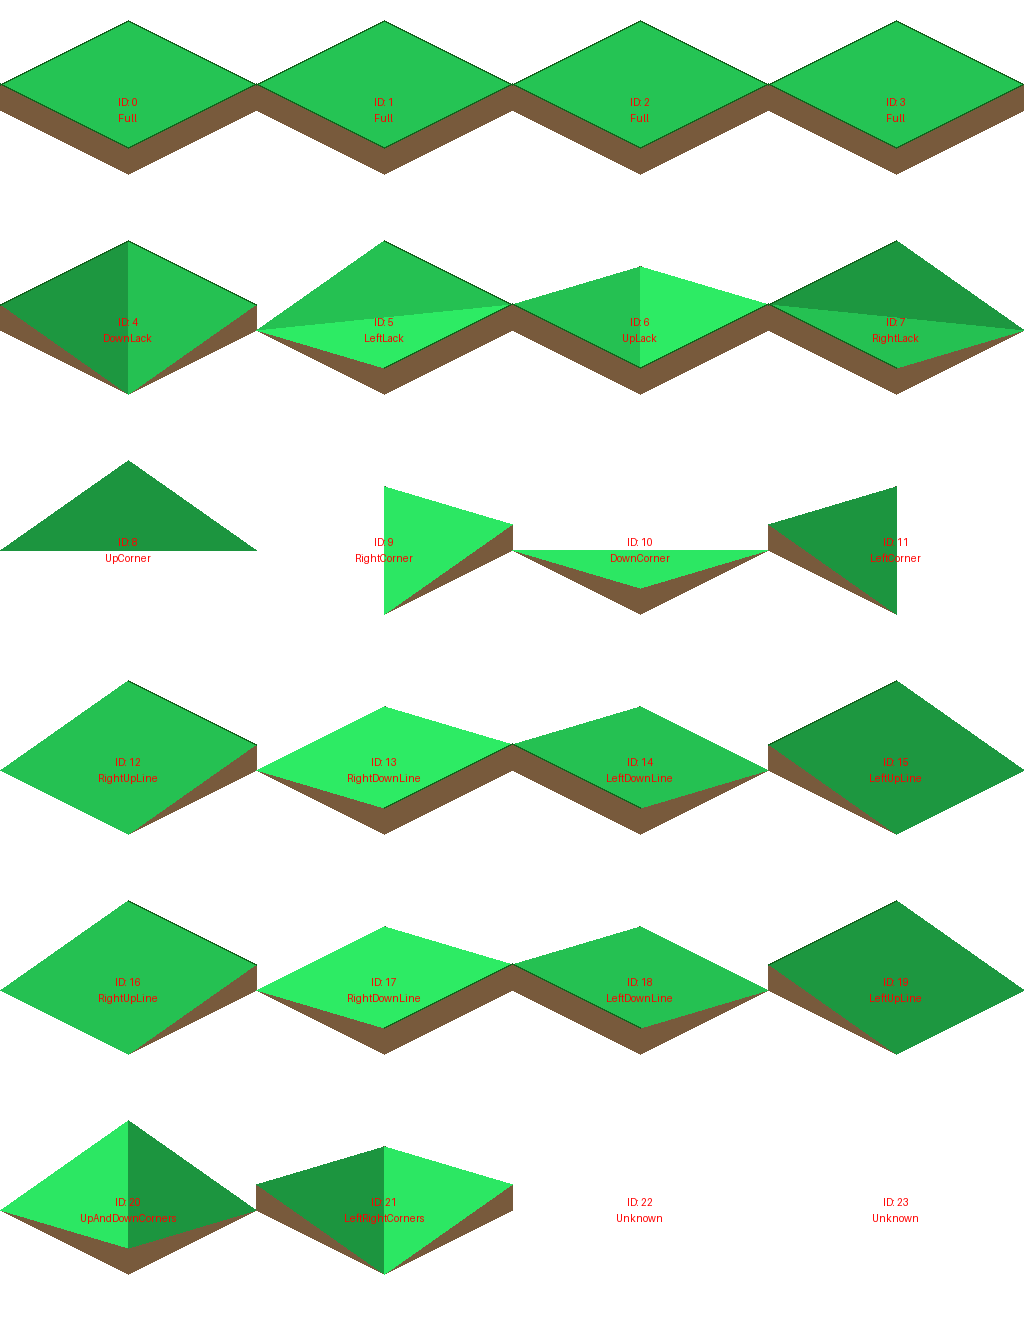
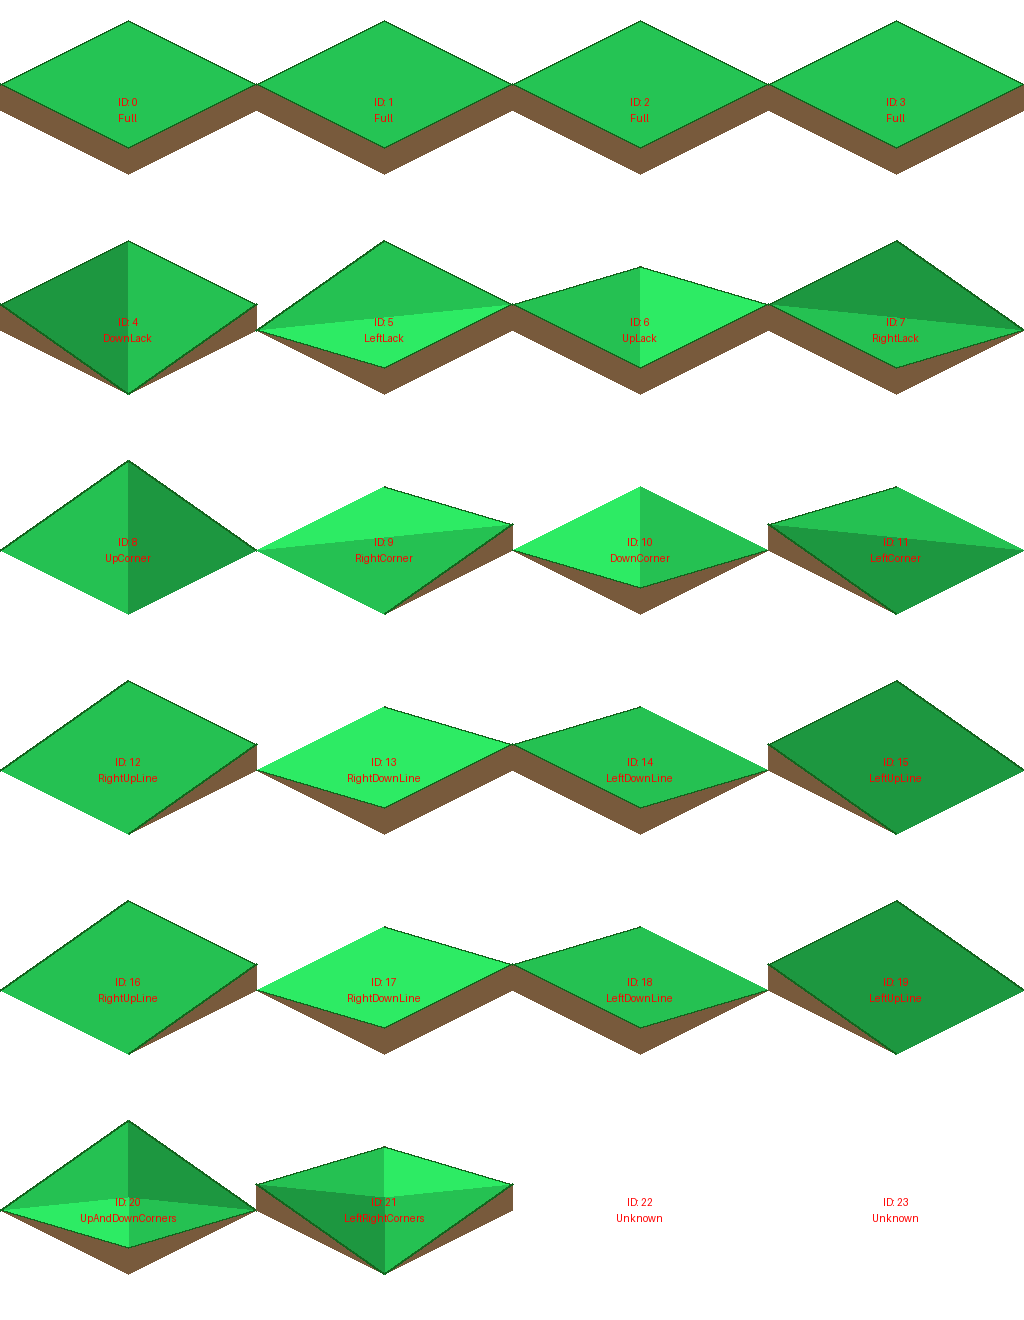
new corners tile generarion rules

diff --git a/utils/asset_generator/generate_atlas.py b/utils/asset_generator/generate_atlas.py
@@ -52,25 +52,41 @@ def generate_png_atlas():
     # Высота подъема
     ELEVATION = 26 
     
+    # [L, LU, U, UR, R, RD, D, DL, C]
+    # Indices: L=0, LU=1, U=2, UR=3, R=4, RD=5, D=6, DL=7, C=8
+    # Previous code used indices 0,1,2,3 for L,U,R,D
+    # Now we must map: L->0, U->2, R->4, D->6 in the mask, but the loop iterates 0..3 for corners.
+    # To minimize refactoring, I'll keep the mask format as [L, U, R, D, ...optional others]
+    # or better, just use the 9-element mask and pick correctly.
+    
+    # Mapping for corner indices in the 9-element mask:
+    # Corner 0 (Left) -> Mask 0
+    # Corner 1 (Up)   -> Mask 2
+    # Corner 2 (Right)-> Mask 4
+    # Corner 3 (Down) -> Mask 6
+    
     masks = {
-        'Full': [1, 1, 1, 1],
-        'DownLack': [1, 1, 1, 0],
-        'LeftLack': [0, 1, 1, 1],
-        'UpLack': [1, 0, 1, 1],
-        'RightLack': [1, 1, 0, 1],
-        'UpCorner': [0, 1, 0, 0],
-        'RightCorner': [0, 0, 1, 0],
-        'DownCorner': [0, 0, 0, 1],
-        'LeftCorner': [1, 0, 0, 0],
-        'RightUpLine': [0, 1, 1, 0],
-        'RightDownLine': [0, 0, 1, 1],
-        'LeftDownLine': [1, 0, 0, 1],
-        'LeftUpLine': [1, 1, 0, 0],
-        'UpAndDownCorners': [0, 1, 0, 1],
-        'LeftRightCorners': [1, 0, 1, 0],
-        'Unknown': [0, 0, 0, 0]
+        'Full':             [1, 1, 1, 1, 1, 1, 1, 1, 1],
+        'DownLack':         [1, 1, 1, 1, 1, 0.5, 0, 0.5, 0.5],
+        'LeftLack':         [0, 0.5, 1, 1, 1, 1, 1, 0.5, 0.5],
+        'UpLack':           [1, 0.5, 0, 0.5, 1, 1, 1, 1, 0.5],
+        'RightLack':        [1, 1, 1, 0.5, 0, 0.5, 1, 1, 0.5],
+        'UpCorner':         [0, 0.5, 1, 0.5, 0, 0, 0, 0, 0],
+        'RightCorner':      [0, 0, 0, 0.5, 1, 0.5, 0, 0, 0],
+        'DownCorner':       [0, 0, 0, 0, 0, 0.5, 1, 0.5, 0],
+        'LeftCorner':       [1, 0.5, 0, 0, 0, 0, 0, 0.5, 0],
+        'RightUpLine':      [0, 0.5, 1, 1, 1, 0.5, 0, 0, 0.5],
+        'RightDownLine':    [0, 0, 0, 0.5, 1, 1, 1, 0.5, 0.5],
+        'LeftDownLine':     [1, 0.5, 0, 0, 0, 0.5, 1, 1, 0.5],
+        'LeftUpLine':       [1, 1, 1, 0.5, 0, 0, 0, 0.5, 0.5],
+        'UpAndDownCorners': [0, 0.5, 1, 0.5, 0, 0.5, 1, 0.5, 0.5],
+        'LeftRightCorners': [1, 0.5, 0, 0.5, 1, 0.5, 0, 0.5, 0.5],
+        'Unknown':          [0, 0, 0, 0, 0, 0, 0, 0, 0]
     }
-
+    
+    # Map logic corner index (0..3) to mask index
+    c_idx = [0, 2, 4, 6] 
+    
     index_to_type = {i: 'Full' for i in range(4)}
     mappings = {
         4: 'DownLack', 5: 'LeftLack', 6: 'UpLack', 7: 'RightLack',
@@ -96,7 +112,8 @@ def generate_png_atlas():
         (-1, 0), # 0: Left
         (0, 1),  # 1: Up
         (1, 0),  # 2: Right
-        (0, -1)  # 3: Down
+        (0, -1), # 3: Down
+        (0, 0)   # 4: Center
     ]
     Z_SCALE = 0.3
     # Light direction: Top-Left (Left-Up)
@@ -120,59 +137,112 @@ def generate_png_atlas():
             (x + 128, cy_base + 64)   # 3: Down
         ]
         
-        pts_top = [(p[0], p[1] - ELEVATION) for p in pts_base]
+        # Calculate Center point (geometric center of diamond)
+        center_x = (pts_base[0][0] + pts_base[2][0]) / 2
+        center_y = (pts_base[1][1] + pts_base[3][1]) / 2
+        pt_center_base = (center_x, center_y)
+        
+        pts_base_all = pts_base + [pt_center_base] # 0..3 corners, 4 center
+        
+        pts_top = [(p[0], p[1] - ELEVATION) for p in pts_base_all]
         
         t_type = index_to_type.get(i, 'Unknown')
-        m = masks[t_type]
-        pts_surface = [pts_top[j] if m[j] else pts_base[j] for j in range(4)]
+        m = masks.get(t_type, masks['Unknown'])
         
-        # Основание
+        # Determine heights for points
+        # Corners: indices 0,1,2,3 map to mask indices 0,2,4,6
+        # Center: index 4 maps to mask index 8
+        
+        corner_heights = [m[0], m[2], m[4], m[6]]
+        center_height = m[8]
+        
+        heights = corner_heights + [center_height]
+        
+        pts_surface = []
+        for k in range(5): # 0..3 corners, 4 center
+            h = heights[k]
+            # Interpolate between base and top
+            # Usually h is 0 or 1, but can be 0.5
+            px = pts_base_all[k][0]
+            # y = base_y - elevation * h
+            py = pts_base_all[k][1] - ELEVATION * h
+            pts_surface.append((px, py))
+        
+        # Основание (debug)
         # draw.polygon(pts_base, outline=(230, 230, 230, 100))
 
-        # Стенки почвы
+        # Стенки почвы (только по периметру 0..3)
         for j in [1, 0, 2, 3]: 
             nj = (j + 1) % 4
-            if m[j] or m[nj]:
+            h_curr = heights[j]
+            h_next = heights[nj]
+            
+            # Draw wall if at least one corner is raised > 0
+            if h_curr > 0 or h_next > 0:
                 side_color = soil_dark if j < 2 else soil_color
-                if m[j] and m[nj]:
-                    draw.polygon([pts_base[j], pts_base[nj], pts_top[nj], pts_top[j]], fill=side_color)
-                elif m[j]:
-                    draw.polygon([pts_base[j], pts_base[nj], pts_top[j]], fill=side_color)
-                elif m[nj]:
-                    draw.polygon([pts_base[j], pts_base[nj], pts_top[nj]], fill=side_color)
+                
+                # Logic: Draw quad defined by surface edge and base edge
+                # pts_surface[j], pts_surface[nj], pts_base[nj], pts_base[j]
+                
+                poly = [pts_base[j], pts_base[nj], pts_surface[nj], pts_surface[j]]
+                draw.polygon(poly, fill=side_color)
 
         # Поверхность
-        if any(m):
+        if any(h > 0 for h in heights):
             # Calculate 3D points for lighting
             pts_3d = []
-            for k in range(4):
-                z = Z_SCALE if m[k] else 0
+            for k in range(5):
+                z = Z_SCALE * heights[k]
                 pts_3d.append((coords_2d_logical[k][0], coords_2d_logical[k][1], z))
 
-            # Split into 2 triangles
-            if t_type in ['UpCorner', 'DownCorner', 'LeftLack', 'RightLack']:
-                # Split along Left-Right (0-2)
-                tris = [(0, 1, 2), (0, 2, 3)]
+            tris = []
+            
+            # Triangulation Logic
+            if t_type in ['UpAndDownCorners', 'LeftRightCorners']:
+                # Fan from Center (index 4)
+                # 4 triangles: (Center, 0, 1), (Center, 1, 2), (Center, 2, 3), (Center, 3, 0)
+                tris = [
+                    (4, 0, 1),
+                    (4, 1, 2),
+                    (4, 2, 3),
+                    (4, 3, 0)
+                ]
+            elif t_type in ['UpCorner', 'DownCorner', 'UpLack', 'DownLack']:
+                 # Split along Up-Down (1-3)
+                 tris = [(0, 1, 3), (1, 2, 3)]
+            elif t_type in ['LeftCorner', 'RightCorner', 'LeftLack', 'RightLack']:
+                 # Split along Left-Right (0-2)
+                 tris = [(0, 1, 2), (0, 2, 3)]
             else:
-                # Default: Split along Up-Down (1-3)
-                tris = [(0, 1, 3), (1, 2, 3)]
+                 # Default (Full, Lines, etc) -> Default Split Up-Down
+                 tris = [(0, 1, 3), (1, 2, 3)]
 
             for (i1, i2, i3) in tris:
-                # Skip triangle if all vertices are at zero level
-                if m[i1] == 0 and m[i2] == 0 and m[i3] == 0:
+                # Skip triangle if all vertices are at zero level (optional optimization)
+                if heights[i1] == 0 and heights[i2] == 0 and heights[i3] == 0:
                     continue
 
                 col = get_lighting_color(grass_color, pts_3d[i1], pts_3d[i2], pts_3d[i3], light_dir)
                 poly = [pts_surface[i1], pts_surface[i2], pts_surface[i3]]
                 draw.polygon(poly, fill=col)
             
-            # Outline for the whole shape
-            # draw.polygon(pts_surface, outline=grass_outline)
-            
+            # Outline for the whole shape (perimeter)
             for j in range(4):
                 nj = (j + 1) % 4
-                if m[j] and m[nj]:
-                    draw.line([pts_top[j], pts_top[nj]], fill=grass_outline, width=2)
+                if heights[j] > 0 and heights[nj] > 0:
+                     draw.line([pts_surface[j], pts_surface[nj]], fill=grass_outline, width=2)
+                # Also draw outline if one is high and one is low? 
+                # Original code: if m[j] and m[nj]. This means both are HIGH.
+                # But now we have 0.5.
+                # Let's keep drawing line if both endpoints are > 0.
+                elif (heights[j] > 0 or heights[nj] > 0):
+                    # For Lacks/Corners, we want outline on the "ground" level? No.
+                    # Usually outline is only on the "green" part.
+                    # Since we draw walls for soil, green outline is on the top edge.
+                    # Let's stick to: draw line if edge is part of the "upper" structure.
+                    # It's hard to define for 0.5.
+                    # Simple heuristic: draw line between surface points.
+                    draw.line([pts_surface[j], pts_surface[nj]], fill=grass_outline, width=2)
 
         # Текст
         # Center of the tile slot

diff --git a/utils/asset_generator/TILE_MASKS.md b/utils/asset_generator/TILE_MASKS.md
@@ -51,14 +51,14 @@
 | **LeftLack** | `[0, 0.5, 1, 1, 1, 1, 1, 0.5, 0.5]` | Угол L опущен. Диагональ L-R. (Центр=0.5) |
 | **UpLack** | `[1, 0.5, 0, 0.5, 1, 1, 1, 1, 0.5]` | Угол U опущен. Диагональ U-D. |
 | **RightLack** | `[1, 1, 1, 0.5, 0, 0.5, 1, 1, 0.5]` | Угол R опущен. Диагональ L-R. (Центр=0.5) |
-| **UpCorner** | `[0, 0.5, 1, 0.5, 0, 0, 0, 0, 0]` | Пик в U. Центр низкий (Split L-R). |
-| **RightCorner** | `[0, 0, 0, 0.5, 1, 0.5, 0, 0, 0]` | Пик в R. |
-| **DownCorner** | `[0, 0, 0, 0, 0, 0.5, 1, 0.5, 0]` | Пик в D. Центр низкий (Split L-R). |
-| **LeftCorner** | `[1, 0.5, 0, 0, 0, 0, 0, 0.5, 0]` | Пик в L. |
+| **UpCorner** | `[0, 0.5, 1, 0.5, 0, 0, 0, 0, 0]` | Пик в U. Диагональ U-D. (Центр=0.5) |
+| **RightCorner** | `[0, 0, 0, 0.5, 1, 0.5, 0, 0, 0]` | Пик в R. Диагональ L-R. (Центр=0.5) |
+| **DownCorner** | `[0, 0, 0, 0, 0, 0.5, 1, 0.5, 0]` | Пик в D. Диагональ U-D. (Центр=0.5) |
+| **LeftCorner** | `[1, 0.5, 0, 0, 0, 0, 0, 0.5, 0]` | Пик в L. Диагональ L-R. (Центр=0.5) |
 | **RightUpLine** | `[0, 0.5, 1, 1, 1, 0.5, 0, 0, 0.5]` | Стена U-R. |
 | **RightDownLine** | `[0, 0, 0, 0.5, 1, 1, 1, 0.5, 0.5]` | Стена R-D. |
 | **LeftDownLine** | `[1, 0.5, 0, 0, 0, 0.5, 1, 1, 0.5]` | Стена L-D. |
 | **LeftUpLine** | `[1, 1, 1, 0.5, 0, 0, 0, 0.5, 0.5]` | Стена L-U. |
-| **UpAndDownCorners** | `[0, 0.5, 1, 0.5, 0, 0.5, 1, 0.5, 1]` | Хребет U-D. Центр высокий. |
-| **LeftRightCorners** | `[1, 0.5, 0, 0.5, 1, 0.5, 0, 0.5, 0]` | Два пика L и R. Центр низкий (долина). |
+| **UpAndDownCorners** | `[0, 0.5, 1, 0.5, 0, 0.5, 1, 0.5, 0.5]` | Хребет U-D. Центр (0.5). |
+| **LeftRightCorners** | `[1, 0.5, 0, 0.5, 1, 0.5, 0, 0.5, 0.5]` | Два пика L и R. Центр (0.5). |
 | **Unknown** | `[0, 0, 0, 0, 0, 0, 0, 0, 0]` | - |
